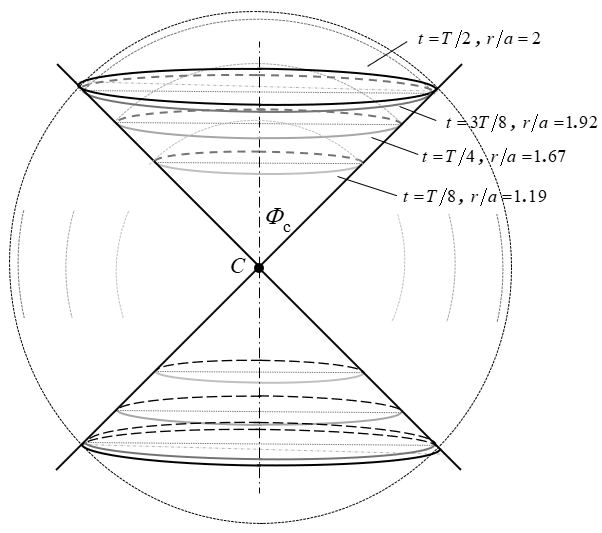
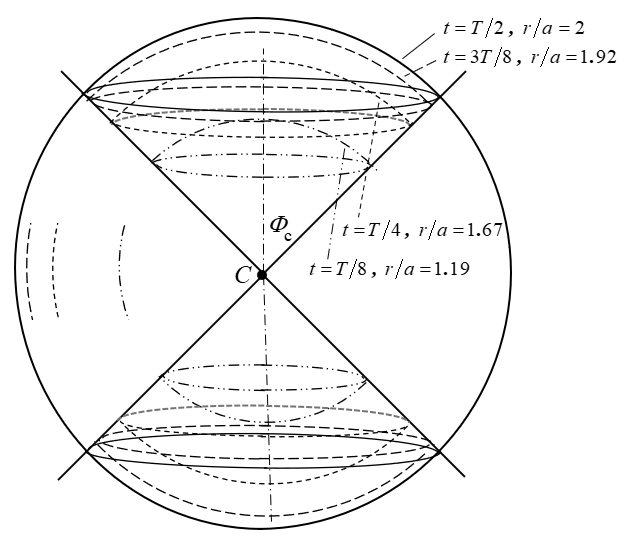
Add files via upload
11-2-2026 Rectilinear ready to push

diff --git a/rectilinear.html b/rectilinear.html
@@ -103,14 +103,14 @@
     Without angular momentum the trajectory is no longer confined to a plane, and the cone
     no longer constrains its direction. This page first follows the whole family of
     equal-energy radial trajectories launched in every direction at once, whose envelope is
-    a sphere that expands and collapses once per period, and compares that motion across the
+    a sphere that, for the ellipse, expands and collapses once per period, and compares that motion across the
     three energies. It then turns to the conical frame, where the cone keeps its shape and
     scales with the sphere.
   </p>
 
   <h2>The Breathing Sphere</h2>
 
-  <p>In the rectilinear ellipse the angular momentum vanishes, so <i>h</i> = <i>p</i> = 0 and the trajectory lies in every plane that contains its line. No direction is preferred. Consider, then, the whole family of equal-energy radial trajectories launched from the center in every direction at the same instant. At any later time every member sits at the same radius, so their envelope is a sphere. That sphere expands, stops, and collapses back to the center once per orbital period. It is a genuinely three-dimensional periodic motion, and among the rectilinear cases it belongs to the ellipse alone.</p>
+  <p>In the rectilinear ellipse the angular momentum vanishes, so <i>h</i> = <i>p</i> = 0 and the trajectory lies in every plane that contains its line. No direction is preferred. Consider, then, the whole family of equal-energy radial trajectories launched from the center in every direction at the same instant. At any later time, every member sits at the same radius, so their envelope is a sphere. That sphere expands, stops, and collapses back to the center once per orbital period. It is a genuinely three-dimensional periodic motion, and among the rectilinear cases it belongs to the ellipse alone.</p>
 
   <h3>Radius and time</h3>
 
@@ -134,9 +134,9 @@
       <div class="eq-num">(R-2)</div>
     </div>
 
-  <p>where <i>E</i> is the eccentric anomaly. Together, Eqs. R-1 and R-2 describe a cycloid: a circle of radius <i>a</i> rolling along the time axis, with <i>E</i> the angle through which it has turned. Each arch touches <i>r</i> = 0 at a collision and reaches <i>r</i> = 2<i>a</i> at <i>E</i> = &pi;.</p>
+  <p>where <i>E</i> is the eccentric anomaly. Together, Eqs. R-1 and R-2 describe a cycloid: a circle of radius <i>a</i> rolling along the time axis, with <i>E</i> the angle through which it has turned. Each arch touches <i>r</i> = 0 at periapsis and reaches <i>r</i> = 2<i>a</i> at <i>E</i> = &pi;.</p>
 
-  <p>Here a collision means <i>r</i> = 0, with the attracting body idealized as a point mass. This point is a singularity: the potential &minus;&mu;/<i>r</i> and the radial speed are both unbounded there, and the equations of motion do not hold. The time to reach it from any finite radius is nevertheless finite, since near the center &radic;(&mu;/<i>a</i><sup>3</sup>)&#8201;<i>t</i> &asymp; <i>E</i><sup>3</sup>/6. We take <i>t</i> = 0 at <i>r</i> = 0, which is periapsis passage for <i>e</i> = 1, defined as the limit of <i>t</i> as <i>r</i> &rarr; 0. The motion is continued past the singularity by reversal, as the regularized solution and the limit <i>e</i> &rarr; 1 of an ordinary ellipse both require, so Eqs. R-1 and R-2 describe a periodic motion.</p>
+  <p>For <i>e</i> = 1, periapsis is at <i>r</i> = 0, with the attracting body idealized as a point mass. This point is a singularity: the potential &minus;&mu;/<i>r</i> and the radial speed are both unbounded there, and the equations of motion do not hold. The time to reach it from any finite radius is nevertheless finite, since Eq. R-2 gives a finite <i>t</i> for every <i>E</i>, including <i>E</i> = 0. We take <i>t</i> = 0 at periapsis passage, defined as the limit of <i>t</i> as <i>r</i> &rarr; 0. The motion is continued past the singularity by reversal, as the regularized solution and the limit <i>e</i> &rarr; 1 of an ordinary ellipse both require, so Eqs. R-1 and R-2 describe periodic motion.</p>
 
   <p>Differentiating Eq. R-2 gives</p>
 
@@ -149,7 +149,7 @@
       <div class="eq-num">(R-3)</div>
     </div>
 
-  <p>The product <i>r</i><i>&Edot;</i> is a constant, &radic;(&mu;/<i>a</i>), the speed on a circle of radius <i>a</i>. The same step applied to the general Kepler equation, &radic;(&mu;/<i>a</i><sup>3</sup>)&#8201;<i>t</i> = <i>E</i> &minus; <i>e</i> sin <i>E</i>, gives <i>&Edot;</i>(1 &minus; <i>e</i> cos <i>E</i>) = &radic;(&mu;/<i>a</i><sup>3</sup>), so Eq. R-3 holds for every ellipse, not only <i>e</i> = 1. It makes <i>E</i> a regularized clock. <i>E</i> advances quickly near the center, where <i>r</i> is small, and slowly near apoapsis, so the collision is smooth in <i>E</i> even though the radial speed is unbounded there in <i>t</i>.</p>
+  <p>The product <i>r</i><i>&Edot;</i> is a constant, &radic;(&mu;/<i>a</i>), the speed on a circle of radius <i>a</i>. The same step applied to the general Kepler equation, &radic;(&mu;/<i>a</i><sup>3</sup>)&#8201;<i>t</i> = <i>E</i> &minus; <i>e</i> sin <i>E</i>, gives <i>&Edot;</i>(1 &minus; <i>e</i> cos <i>E</i>) = &radic;(&mu;/<i>a</i><sup>3</sup>), so Eq. R-3 holds for every ellipse, not only for <i>e</i> = 1. By Eq. R-3, <i>E</i> advances at a rate proportional to 1/<i>r</i>: quickly near the center and slowly near apoapsis, so periapsis passage is smooth in <i>E</i> even though the radial speed is unbounded there in <i>t</i>.</p>
 
   <h3>Area and area rate</h3>
 
@@ -186,7 +186,7 @@
       <div class="eq-num">(R-6)</div>
     </div>
 
-  <p>The area rate is a pure sine of <i>E</i>. It stays finite through the collision, where &#7769; itself is singular. For a general ellipse Eq. R-5 reads <i>r</i>&#7769; = <i>e</i>&radic;(&mu;<i>a</i>) sin <i>E</i>, so the rectilinear result is simply the case <i>e</i> = 1. The constant &radic;(&mu;<i>a</i>) is the angular momentum per unit mass of the circular orbit of radius <i>a</i>, just as &radic;(&mu;/<i>a</i>) is its speed.</p>
+  <p>The area rate is a pure sine of <i>E</i>. It stays finite through periapsis, where &#7769; itself is singular. For a general ellipse Eq. R-5 reads <i>r</i>&#7769; = <i>e</i>&radic;(&mu;<i>a</i>) sin <i>E</i>, so the rectilinear result is simply the case <i>e</i> = 1. The constant &radic;(&mu;<i>a</i>) is the angular momentum per unit mass of the circular orbit of radius <i>a</i>, just as &radic;(&mu;/<i>a</i>) is its speed.</p>
 
   <h3>Area as an explicit function of time</h3>
 
@@ -210,7 +210,7 @@
       <div class="eq-num">(R-8)</div>
     </div>
 
-  <p>where <i>J<sub>k</sub></i> is the Bessel function of the first kind. Only cosines appear in Eq. R-7 because <i>A</i>(<i>t</i>) is symmetric about each collision and about apoapsis. The constant term gives the time-averaged area,</p>
+  <p>where <i>J<sub>k</sub></i> is the Bessel function of the first kind. Only cosines appear in Eq. R-7 because <i>A</i>(<i>t</i>) is symmetric about each periapsis passage and about apoapsis. The constant term gives the time-averaged area,</p>
 
   <div class="eq-row">
       <div class="eq-body">
@@ -223,12 +223,12 @@
 
   <p>compared with the peak of 16&pi;<i>a</i><sup>2</sup>. The sphere spends more of each period large than small, since it moves slowly near apoapsis.</p>
 
-  <figure class="figure wpx" style="width: 70%;">
+  <figure class="figure wpx" style="width: 50%;">
   <img src="fig_r_area.png" alt="Area and area rate of the breathing sphere over two periods">
   <figcaption>Fig. R-1. Sphere area and area rate</figcaption>
   </figure>
 
-  <p>Figure R-1 shows two periods. In the upper panel the solid curve is the exact area from Eqs. R-2 and R-4, the dotted line is the mean of Eq. R-9, and the dashed curve keeps only the first three terms of Eq. R-7. The three-term curve follows the exact one closely everywhere except at collision, where it rounds off the cusp. The lower panel shows Eq. R-6. Its extremes of &plusmn;8&pi;&radic;(&mu;<i>a</i>) occur at <i>E</i> = &pi;/2, which by Eq. R-2 is <i>t</i>/<i>T</i> &asymp; 0.09, well before a quarter period.</p>
+  <p>Figure R-1 shows two periods. In the upper panel the solid curve is the exact area from Eqs. R-2 and R-4, the dotted line is the mean of Eq. R-9, and the dashed curve keeps only the first three terms of Eq. R-7. The three-term curve follows the exact one closely everywhere except at periapsis, where it rounds off the cusp. The lower panel shows Eq. R-6. Its extremes of &plusmn;8&pi;&radic;(&mu;<i>a</i>) occur at <i>E</i> = &pi;/2, which by Eq. R-2 is <i>t</i>/<i>T</i> &asymp; 0.09, well before a quarter period.</p>
 
   <h3>Gauss's law for the breathing sphere</h3>
 
@@ -256,13 +256,13 @@
       <div class="eq-num">(R-11)</div>
     </div>
 
-  <p>At apoapsis, <i>E</i> = &pi; and <i>r</i><i>&Auml;</i> = &minus;8&pi;&mu;, twice the flux. Near collision cos <i>E</i> approaches 1 while <i>r</i> approaches zero, so <i>&Auml;</i> grows without bound, consistent with the vertical tangent in the lower panel of Fig. R-1. The leading coefficient of Eq. R-6 can be written the same way, 8&pi;&radic;(&mu;<i>a</i>) = 2(4&pi;&mu;)/&radic;(&mu;/<i>a</i>).</p>
+  <p>At apoapsis, <i>E</i> = &pi; and <i>r</i><i>&Auml;</i> = &minus;8&pi;&mu;, twice the flux. Near periapsis cos <i>E</i> approaches 1 while <i>r</i> approaches zero, so <i>&Auml;</i> grows without bound, consistent with the vertical tangent in the lower panel of Fig. R-1. The leading coefficient of Eq. R-6 can be written the same way, 8&pi;&radic;(&mu;<i>a</i>) = 2(4&pi;&mu;)/&radic;(&mu;/<i>a</i>).</p>
 
-  <h3>Collision behavior and the other energies</h3>
+  <h3>Periapsis behavior and the other energies</h3>
 
-  <p>Near collision, <i>E</i> is small and Eqs. R-1 and R-2 give <i>r</i> &asymp; <i>aE</i><sup>2</sup>/2 and &radic;(&mu;/<i>a</i><sup>3</sup>)&#8201;<i>t</i> &asymp; <i>E</i><sup>3</sup>/6. Then <i>r</i> &prop; <i>t</i><sup>2/3</sup>, <i>A</i> &prop; <i>t</i><sup>4/3</sup>, and <i>dA</i>/<i>dt</i> &prop; <i>t</i><sup>1/3</sup>. The area rate therefore passes through zero with a vertical tangent at each collision, as the lower panel of Fig. R-1 shows. This is also why Eq. R-8 converges more slowly than Eq. R-7: since <i>J<sub>k</sub></i>(<i>k</i>) falls off as <i>k</i><sup>&minus;1/3</sup>, the terms of Eq. R-8 decrease as <i>k</i><sup>&minus;4/3</sup> and those of Eq. R-7 as <i>k</i><sup>&minus;7/3</sup>.</p>
+  <p>Near periapsis, <i>E</i> is small and Eqs. R-1 and R-2 give <i>r</i> &asymp; <i>aE</i><sup>2</sup>/2 and &radic;(&mu;/<i>a</i><sup>3</sup>)&#8201;<i>t</i> &asymp; <i>E</i><sup>3</sup>/6. Then <i>r</i> &prop; <i>t</i><sup>2/3</sup>, <i>A</i> &prop; <i>t</i><sup>4/3</sup>, and <i>dA</i>/<i>dt</i> &prop; <i>t</i><sup>1/3</sup>. The area rate therefore passes through zero with a vertical tangent at each periapsis passage, as the lower panel of Fig. R-1 shows. This is also why Eq. R-8 converges more slowly than Eq. R-7: since <i>J<sub>k</sub></i>(<i>k</i>) falls off as <i>k</i><sup>&minus;1/3</sup>, the terms of Eq. R-8 decrease as <i>k</i><sup>&minus;4/3</sup> and those of Eq. R-7 as <i>k</i><sup>&minus;7/3</sup>.</p>
 
-  <p>The other two rectilinear cases never come back to the center. With zero energy the radius grows as <i>r</i> = (9&mu;<i>t</i><sup>2</sup>/2)<sup>1/3</sup>, and with positive energy <i>r</i> = <i>a</i>(sec &eta; &minus; 1) with &radic;(&mu;/<i>a</i><sup>3</sup>)&#8201;<i>t</i> = tan &eta; &minus; ln(sec &eta; + tan &eta;), the rectilinear form of the time equation on the <a href="hyperbolic.html#time-equation">Hyperbolic page</a>. In both, the sphere expands without limit. The same three solutions describe the closed, critical, and open universes of Newtonian cosmology (Milne and McCrea, 1934)<a class="footnote-ref" href="#ref-1" id="cite-1">1</a>, where each shell of a uniform sphere follows a radial Kepler trajectory, and the negative-energy case is the spherical collapse model used for galaxy halos (Gunn and Gott, 1972)<a class="footnote-ref" href="#ref-2" id="cite-2">2</a>.</p>
+  <p>The other two rectilinear cases never come back to the center. With zero energy the radius grows as <i>r</i> = (9&mu;<i>t</i><sup>2</sup>/2)<sup>1/3</sup>, and with positive energy <i>r</i> = <i>a</i>(sec &eta; &minus; 1) with &radic;(&mu;/<i>a</i><sup>3</sup>)&#8201;<i>t</i> = tan &eta; &minus; ln(sec &eta; + tan &eta;), the rectilinear form of the time equation on the <a href="hyperbolic.html#time-equation">Hyperbolic page</a>. In both, the sphere expands without limit. In cosmology, the negative-energy case is the spherical collapse model used for galaxy halos, in which each shell of a uniform sphere follows a radial Kepler trajectory (Gunn and Gott, 1972)<a class="footnote-ref" href="#ref-1" id="cite-1">1</a>.</p>
 
   <h3>Comparing the three energies</h3>
 
@@ -286,7 +286,7 @@
       <div class="eq-num">(R-13)</div>
     </div>
 
-  <p>with the ellipse given by Eqs. R-1 and R-2. The vis-viva equation shows why the three agree near the center. It reads <i>v</i><sup>2</sup> = 2&mu;/<i>r</i> &minus; &mu;/<i>a</i> for the ellipse, 2&mu;/<i>r</i> for the parabola, and 2&mu;/<i>r</i> + &mu;/<i>a</i> for the hyperbola. As <i>r</i> becomes small, the 2&mu;/<i>r</i> term dominates and the energy term no longer matters, so both the ellipse and the hyperbola tend toward the parabolic motion. The series confirm this. For small <i>E</i>, Eqs. R-1 and R-2 give <i>r</i>/<i>a</i> &asymp; <i>E</i><sup>2</sup>/2 and &radic;(&mu;/<i>a</i><sup>3</sup>)&#8201;<i>t</i> &asymp; <i>E</i><sup>3</sup>/6, and eliminating <i>E</i> gives Eq. R-12 exactly. Eq. R-13 does the same for small &eta;, where sec &eta; &minus; 1 &asymp; &eta;<sup>2</sup>/2 and tan &eta; &minus; ln(sec &eta; + tan &eta;) &asymp; &eta;<sup>3</sup>/6. Eq. R-12 is therefore the leading term of both the elliptic and hyperbolic solutions.</p>
+  <p>with the ellipse given by Eqs. R-1 and R-2. The vis-viva equation shows why the three agree near the center. It reads <i>v</i><sup>2</sup> = 2&mu;/<i>r</i> &minus; &mu;/<i>a</i> for the ellipse, 2&mu;/<i>r</i> for the parabola, and 2&mu;/<i>r</i> + &mu;/<i>a</i> for the hyperbola. As <i>r</i> becomes small, the 2&mu;/<i>r</i> term dominates and the energy term no longer matters, so both the ellipse and the hyperbola tend toward the parabolic motion. The series equations confirm this. For small <i>E</i>, Eqs. R-1 and R-2 give <i>r</i>/<i>a</i> &asymp; <i>E</i><sup>2</sup>/2 and &radic;(&mu;/<i>a</i><sup>3</sup>)&#8201;<i>t</i> &asymp; <i>E</i><sup>3</sup>/6, and eliminating <i>E</i> gives Eq. R-12 exactly. Eq. R-13 does the same for small &eta;, where sec &eta; &minus; 1 &asymp; &eta;<sup>2</sup>/2 and tan &eta; &minus; ln(sec &eta; + tan &eta;) &asymp; &eta;<sup>3</sup>/6. Eq. R-12 is therefore the leading term of both the elliptic and hyperbolic solutions.</p>
 
   <p>Eq. R-3 has a hyperbolic partner. Differentiating the time equation of Eq. R-13 gives <i>r</i>&#8201;&eta;&#775; sec &eta; = &radic;(&mu;/<i>a</i>). For the rectilinear hyperbola the apex distance is <i>R</i> = <i>r</i> + <i>a</i>, so sec &eta; = <i>R</i>/<i>a</i> and</p>
 
@@ -301,7 +301,7 @@
 
   <p>The ellipse holds <i>r</i><i>&Edot;</i> at &radic;(&mu;/<i>a</i>), the speed on a circle of radius <i>a</i>, and the hyperbola holds <i>rR</i>&eta;&#775; at &radic;(&mu;<i>a</i>), the angular momentum on that circle. For a general hyperbola the same steps, with cos &eta; = <i>ae</i>/<i>R</i>, give <i>rR</i>&eta;&#775; = <i>e</i>&radic;(&mu;<i>a</i>).</p>
 
-  <figure class="figure wpx" style="width: 70%;">
+  <figure class="figure wpx" style="width: 50%;">
   <img src="fig_r_three.png" alt="Normalized radius versus time for the rectilinear ellipse, parabola, and hyperbola">
   <figcaption>Fig. R-2. Rectilinear radius for the three energies</figcaption>
   </figure>
@@ -334,7 +334,7 @@
 
   <h2>The Breathing Cone</h2>
 
-  <p>With <i>p</i> = 0 the Bridge Relation <i>R</i><sup>2</sup> = <i>r</i><sup>2</sup> + <i>ap</i> reduces to <i>R</i> = <i>r</i>, so the bounding sphere of the conic frame is the breathing sphere itself. The cone half angle &Phi;<sub><i>c</i></sub> stays fixed while <i>r</i> changes, and the whole frame scales with <i>r</i> without changing shape. Every length in it goes as <i>r</i>, every area as <i>r</i><sup>2</sup>, and every volume as <i>r</i><sup>3</sup>, so all of them follow the cycloidal motion of Eqs. R-1 and R-2.</p>
+  <p>With <i>p</i> = 0 the Bridge Relation <i>R</i><sup>2</sup> = <i>r</i><sup>2</sup> + <i>ap</i> reduces to <i>R</i> = <i>r</i>, so the bounding sphere of the conic frame is the breathing sphere itself. The cone half-angle &Phi;<sub><i>c</i></sub> stays fixed while <i>r</i> changes, and the whole frame scales with <i>r</i> without changing shape. Every length in it goes as <i>r</i>, every area as <i>r</i><sup>2</sup>, and every volume as <i>r</i><sup>3</sup>, so all of them follow the cycloidal motion of Eqs. R-1 and R-2.</p>
 
   <h3>Circumference</h3>
 
@@ -351,12 +351,12 @@
 
   <p><i>C&prime;</i> is a constant fraction, sin &Phi;<sub><i>c</i></sub>, of the sphere's great circle. As a function of time it is the cycloid of Eqs. R-1 and R-2, scaled by 2&pi; sin &Phi;<sub><i>c</i></sub>.</p>
 
-  <figure class="figure wpx" style="width: 55%;">
+  <figure class="figure wpx" style="width: 45%;">
   <img src="fig_r_cone.png" alt="The 45-degree breathing cone at one, two, three, and four eighths of a period">
   <figcaption>Fig. R-3. Breathing cone at equal time steps</figcaption>
   </figure>
 
-  <p>Figure R-3 shows the 45&deg; frame from the side at 25, 50, 75, and 100 percent of the outbound half-period, <i>t</i> = <i>T</i>/8, <i>T</i>/4, 3<i>T</i>/8, and <i>T</i>/2. Each instant has its own gray level. The dotted circle is the breathing sphere, the solid lines are the generators out to radius <i>r</i>, and each ring <i>C&prime;</i> is drawn as a flattened ellipse. All the frames share the apex <i>C</i> and the half angle &Phi;<sub><i>c</i></sub>, so they are nested similar cones. Solving Eq. R-2 at these times gives <i>r</i>/<i>a</i> = 1.19, 1.67, 1.92, and 2. Equal steps in time give unequal steps in radius: the ring covers more than half its full excursion in the first eighth of the period, and the last two rings nearly coincide. This is the slow motion near apoapsis that weights the average of Eq. R-9. On the inbound half the rings retrace the same positions in reverse order.</p>
+  <p>Figure R-3 shows the 45&deg; frame from the side at 25, 50, 75, and 100 percent of the outbound half-period, <i>t</i> = <i>T</i>/8, <i>T</i>/4, 3<i>T</i>/8, and <i>T</i>/2. Each instant has its own line style, labeled with its time and radius. The outer circle is the sphere at apoapsis, the short arcs at the left mark the sphere at the three earlier instants, and each ring <i>C&prime;</i> is drawn as a flattened ellipse on both nappes. All the frames share the apex <i>C</i>, the axis, and the half-angle &Phi;<sub><i>c</i></sub>, so they are nested similar cones on the same generators. The radii come from solving Eq. R-2 at these times, which gives <i>r</i>/<i>a</i> = 1.19, 1.67, 1.92, and 2. Equal steps in time give unequal steps in radius: the ring covers more than half its full excursion in the first eighth of the period, and the last two rings nearly coincide. This is the slow motion near apoapsis that weights the average of Eq. R-9. On the inbound half the rings retrace the same positions in reverse order.</p>
 
   <p>Because <i>C&prime;</i> = <i>kr</i> with the constant <i>k</i> = 2&pi; sin &Phi;<sub><i>c</i></sub>, its acceleration is <i>k</i> times the radial acceleration, and substituting <i>r</i> = <i>C&prime;</i>/<i>k</i> gives</p>
 
@@ -386,7 +386,7 @@
 
   <p>The cone area is the sphere area of Eq. R-4 scaled by the constant &frac12; sin &Phi;<sub><i>c</i></sub>, which is &radic;2/4 &asymp; 0.354 for the 45&deg; cone. Every result for <i>A</i>, including the series of Eqs. R-7 and R-8, carries over to <i>A<sub>c</sub></i> with the same factor.</p>
 
-  <h3>Rates at collision</h3>
+  <h3>Rates at periapsis</h3>
 
   <p>From Eq. R-5, &#7769; = &radic;(&mu;<i>a</i>) sin <i>E</i>/<i>r</i> = &radic;(&mu;/<i>a</i>) cot(<i>E</i>/2). The two rates are then</p>
 
@@ -408,7 +408,7 @@
       <div class="eq-num">(R-21)</div>
     </div>
 
-  <p>Eq. R-20 is singular at collision, like &#7769;, so the circumference carries the cusp of the cycloid. In Eq. R-21 the factors of (1 &minus; cos <i>E</i>) cancel as they did in Eq. R-6, and the rate stays finite. The circumference carries the cusp and the area smooths it out, the same split seen between &#7769; and <i>dA</i>/<i>dt</i> for the sphere.</p>
+  <p>Eq. R-20 is singular at periapsis, like &#7769;, so the circumference carries the cusp of the cycloid. In Eq. R-21 the factors of (1 &minus; cos <i>E</i>) cancel as they did in Eq. R-6, and the rate stays finite. The circumference carries the cusp and the area smooths it out, the same split seen between &#7769; and <i>dA</i>/<i>dt</i> for the sphere.</p>
 
   <h3>Time averages</h3>
 
@@ -423,7 +423,7 @@
       <div class="eq-num">(R-22)</div>
     </div>
 
-  <p>With their constant factors removed, <i>C&prime;</i> and <i>A<sub>c</sub></i> reduce to <i>r</i>/<i>a</i> and (<i>r</i>/<i>a</i>)<sup>2</sup>, curves already shown in Figs. R-2 and R-1, so they need no figure of their own. The only new behavior is in the rates. Scaled the same way, Eq. R-20 becomes cot(<i>E</i>/2), unbounded at each collision, while Eq. R-21 becomes 2 sin <i>E</i>, with the shape of the lower panel of Fig. R-1.</p>
+  <p>With their constant factors removed, <i>C&prime;</i> and <i>A<sub>c</sub></i> reduce to <i>r</i>/<i>a</i> and (<i>r</i>/<i>a</i>)<sup>2</sup>, curves already shown in Figs. R-2 and R-1, so they need no figure of their own. The only new behavior is in the rates. Scaled the same way, Eq. R-20 becomes cot(<i>E</i>/2), unbounded at each periapsis passage, while Eq. R-21 becomes 2 sin <i>E</i>, with the shape of the lower panel of Fig. R-1.</p>
 
   <h3>Gauss's law for the cone</h3>
 
@@ -438,7 +438,7 @@
       <div class="eq-num">(R-23)</div>
     </div>
 
-  <p>This has the same form as Eq. R-10 and is constant through the cycle. The factor 2&pi;(1 &minus; cos &Phi;<sub><i>c</i></sub>) is the solid angle of the nappe, so the two caps together carry the fraction 1 &minus; cos &Phi;<sub><i>c</i></sub> of the sphere's flux, about 0.293 for the 45&deg; cone. Every field line through a cap also passes through its flat base, so the base carries the same flux. The enclosed volume of each nappe with its cap, (2/3)&pi;<i>r</i><sup>3</sup>(1 &minus; cos &Phi;<sub><i>c</i></sub>), likewise takes the same fraction of Eq. R-15 near collision.</p>
+  <p>This has the same form as Eq. R-10 and is constant through the cycle. The factor 2&pi;(1 &minus; cos &Phi;<sub><i>c</i></sub>) is the solid angle of the nappe, so the two caps together carry the fraction 1 &minus; cos &Phi;<sub><i>c</i></sub> of the sphere's flux, about 0.293 for the 45&deg; cone. Every field line through a cap also passes through its flat base, so the base carries the same flux. The enclosed volume of each nappe with its cap, (2/3)&pi;<i>r</i><sup>3</sup>(1 &minus; cos &Phi;<sub><i>c</i></sub>), likewise takes the same fraction of Eq. R-15 near periapsis.</p>
 
   <p>The lateral area gives a companion relation. Multiplying Eq. R-19 by <i>r&#776;</i> = &minus;&mu;/<i>r</i><sup>2</sup>,</p>
 
@@ -470,16 +470,10 @@
 
   <div class="footnote" id="references">
     <p id="ref-1">
-      <sup>1</sup> E. A. Milne, "A Newtonian expanding universe," <em>Quarterly Journal of
-      Mathematics</em> 5, 64–72 (1934); W. H. McCrea and E. A. Milne, "Newtonian universes
-      and the curvature of space," <em>Quarterly Journal of Mathematics</em> 5, 73–80 (1934).
-      <a href="#cite-1">↩</a>
-    </p>
-    <p id="ref-2">
-      <sup>2</sup> J. E. Gunn and J. R. Gott, "On the infall of matter into clusters of
+      <sup>1</sup> J. E. Gunn and J. R. Gott, "On the infall of matter into clusters of
       galaxies and some effects on their evolution," <em>Astrophysical Journal</em> 176, 1–19
       (1972).
-      <a href="#cite-2">↩</a>
+      <a href="#cite-1">↩</a>
     </p>
   </div>
   <!-- PENDING: Doug to confirm reference details against the originals before going live. -->
